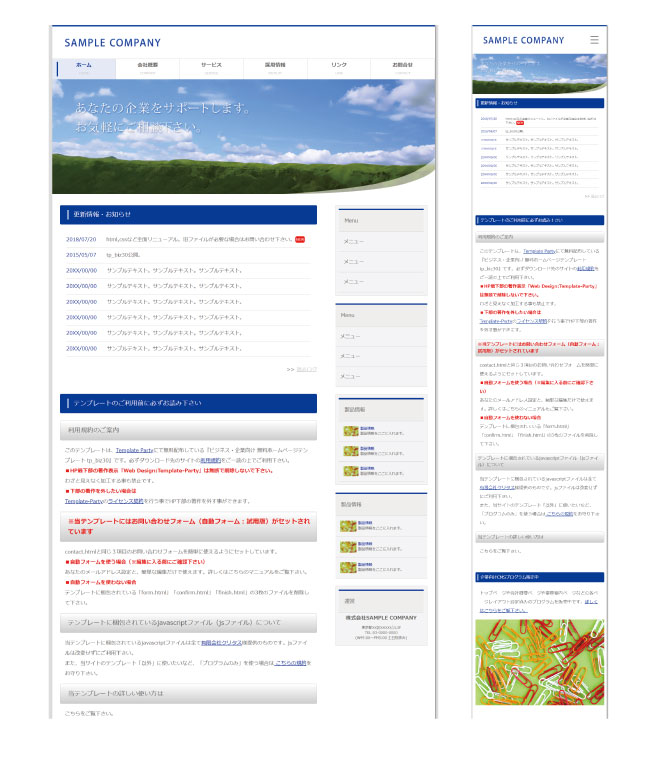
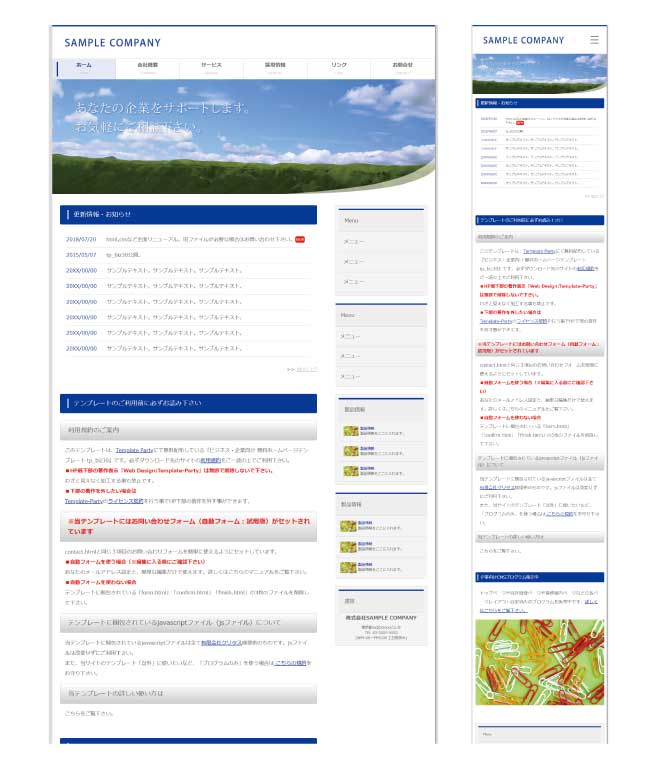
Second
2回目

diff --git a/index.html b/index.html
@@ -6,6 +6,7 @@
   <title>miidesign</title>
   <link rel="stylesheet" href="https://cdnjs.cloudflare.com/ajax/libs/meyer-reset/2.0/reset.css">
   <link rel="stylesheet" href="css/styles.css">
+  <link rel="shortcut icon" href="images/favicon.ico">
   <!-- 問い合わせフォーム -->
   <script src="https://sdk.form.run/js/v2/formrun.js"></script>
 </head>
@@ -108,7 +109,7 @@
         「ホームページを作りたい」<br>
         「更新だけ頼みたい」<br>
         「スマホ対応のホームページを作ってほしい」<br>
-        「ホームページで商品を売りたい」<br>
+        「商品をネットで売りたい」<br>
         「広告画像だけ作ってほしい」<br>
         小さなことでもお気軽にご相談ください。
       </p>
@@ -128,11 +129,11 @@
         ホームページ制作＋印刷をお手伝いします
       </h2>
       <p>
-        さいたま市の企業様・店舗経営者様・個人事業主様の広報全般をお手伝いいたします。<br>
+        さいたま市の企業様・店舗様・個人事業主様の広報全般をお手伝いいたします。<br>
         県外のお客様からのご依頼も大歓迎です。<br>
-        現在、直接お打合せに伺うことは難しいですが、
-        zoom・その他ご希望のオンラインにてお打ち合わせが可能です。<br>
-        お客様の届けたい人に届くように「読みやすく、伝わるデザイン」を心がけています。
+        現在、直接伺うことは難しいですが、
+        zoomやご希望のオンラインにてお打ち合わせが可能です。<br>
+        お客様の届けたい人に届くよう「読みやすく、伝わるデザイン」を心がけています。
       </p>
     </div>
 </section>
@@ -143,11 +144,10 @@
         自己紹介
       </h2>
       <p>
-        はじめまして、
-        ミイ（mii）です。（本名：近藤　美絵）<br>
+        はじめまして ミイ（mii）です。（本名：近藤　美絵）<br>
         さいたま市在住。パートをしながらフリーデザイナーをしております。埼玉県入間市出身。子育て中の主婦です。<br>
         <br>
-        これまで印刷、広報、展示会出展、商品開発などに携わってきました。<br>
+        これまで印刷・広報・展示会出展・商品開発などに携わってきました。<br>
         ”つくること”　が大好きで、<br>
         ”誰かに喜んでもらえる仕事”　にやりがいを感じます。<br>
         <br>
@@ -172,7 +172,7 @@
     </div>
     <h3>ホームページ制作・リニューアル</h3>
     <div class="servise-desc">
-      先ずはお客様の作りたいイメージをお聞かせください。ホームページを作る目的を明確にしながら、一緒に作っていきましょう。<br>
+      先ずはお客様の作りたいイメージをお聞かせください。ホームページを作る目的を明確にしながら一緒に作っていきましょう。<br>
       既存ページのリニューアルもお任せください。
     </div>
   </div>
@@ -252,11 +252,27 @@
   
     <div class="skill-left shadow">
       <div class="servise-photo border">
-        <img src="images/sample-01.jpg" alt="実績:サンプルサイト1">
+        <img src="images/miidesignpage.jpg" alt="実績:サンプルサイト1">
       </div>
     </div>
   
     <div class="skill-right shadow">
+      <div class="servise-photo border">
+        <img src="images/sample-02.jpg" alt="スマホ対応
+        （レスポンシブ対応）">
+      </div>
+    </div>
+  </section>
+
+  <section class="skill">
+  
+    <div class="skill-left shadow">
+      <div class="servise-photo border">
+        <img src="images/sample-01.jpg" alt="実績:サンプルサイト1">
+      </div>
+    </div>
+  
+    <div class="skill-right shadow displaynone">
       <div class="servise-photo border">
         <img src="images/sample-02.jpg" alt="スマホ対応
         （レスポンシブ対応）">

diff --git a/css/styles.css b/css/styles.css
@@ -215,6 +215,7 @@
 h1 {
   display: inline-block;
   font-size: 28px;
+  /* padding-top: 60px; */
   padding-bottom: 5px;
   border-bottom: aquamarine 8px solid;
   color: #424242;
@@ -301,10 +302,14 @@ h2 {
   border: gainsboro solid 1px;
 }
 
+.displaynone {
+  display: none;
+}
+
 /* 区切り線 */
 .border-article {
   border-top: double 5px gainsboro ;
-  padding-top: 80px;
+  padding-top: 80px;  
 }
 
 
@@ -664,9 +669,9 @@ h2 {
 .skill {
   flex-direction: column;
   text-align: left;
-  margin-bottom: 80px;
   text-align: center;
   line-height: 2em;
+  margin-bottom: 0;
 }
 
 .skill-left {
@@ -676,6 +681,7 @@ h2 {
 
 .skill-right {
   width: 100%;
+  margin-bottom: 40px;
 }
 
 
@@ -692,8 +698,9 @@ h2 {
   /* box-shadow: 2px 2px 4px gainsboro; */
   /* text-align: center; */
   margin-bottom: 60px;
-
 }
+
+
 
 .main-box-servise {
   text-align: center;

diff --git a/contact.html b/contact.html
@@ -6,6 +6,7 @@
   <title>miidesign</title>
   <link rel="stylesheet" href="https://cdnjs.cloudflare.com/ajax/libs/meyer-reset/2.0/reset.css">
   <link rel="stylesheet" href="css/styles.css">
+  <link rel="shortcut icon" href="images/favicon.ico">
   <!-- 問い合わせフォーム -->
   <script src="https://sdk.form.run/js/v2/formrun.js"></script>
 </head>
